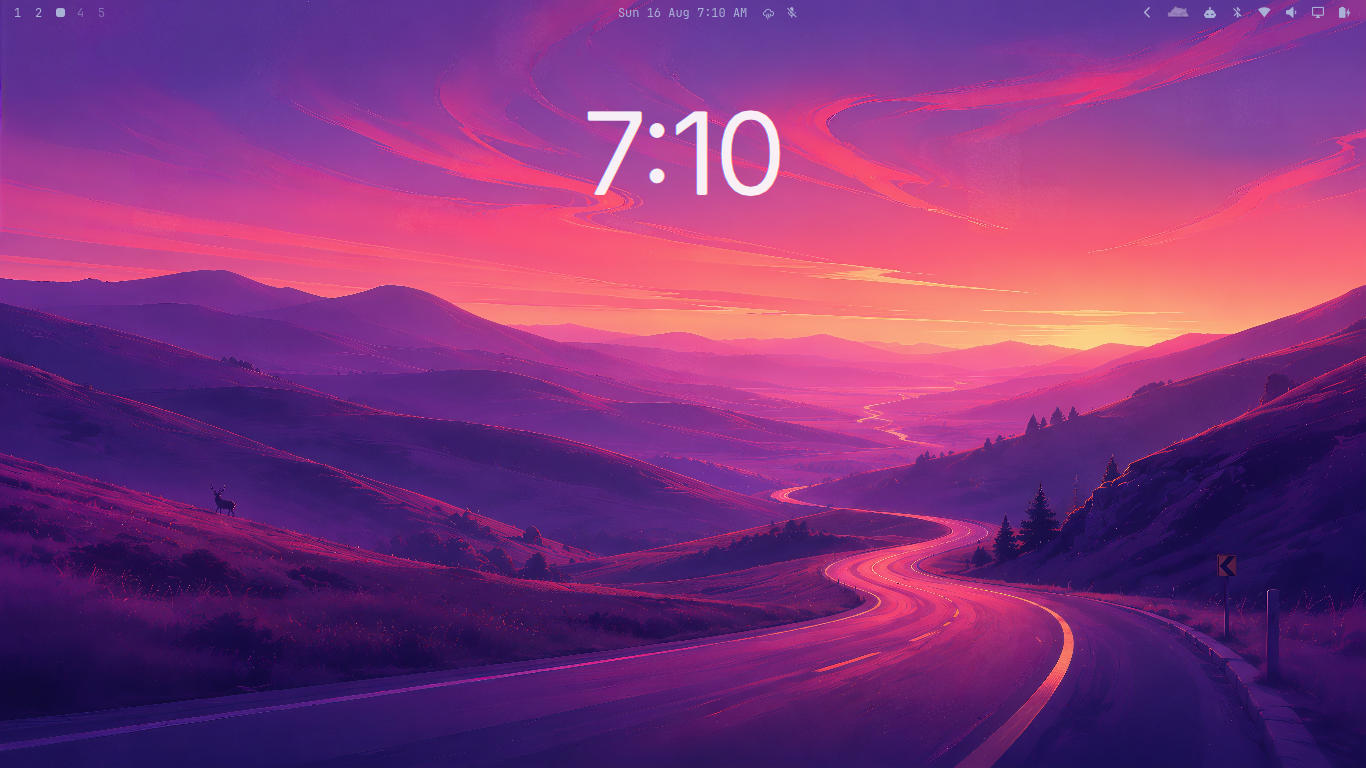
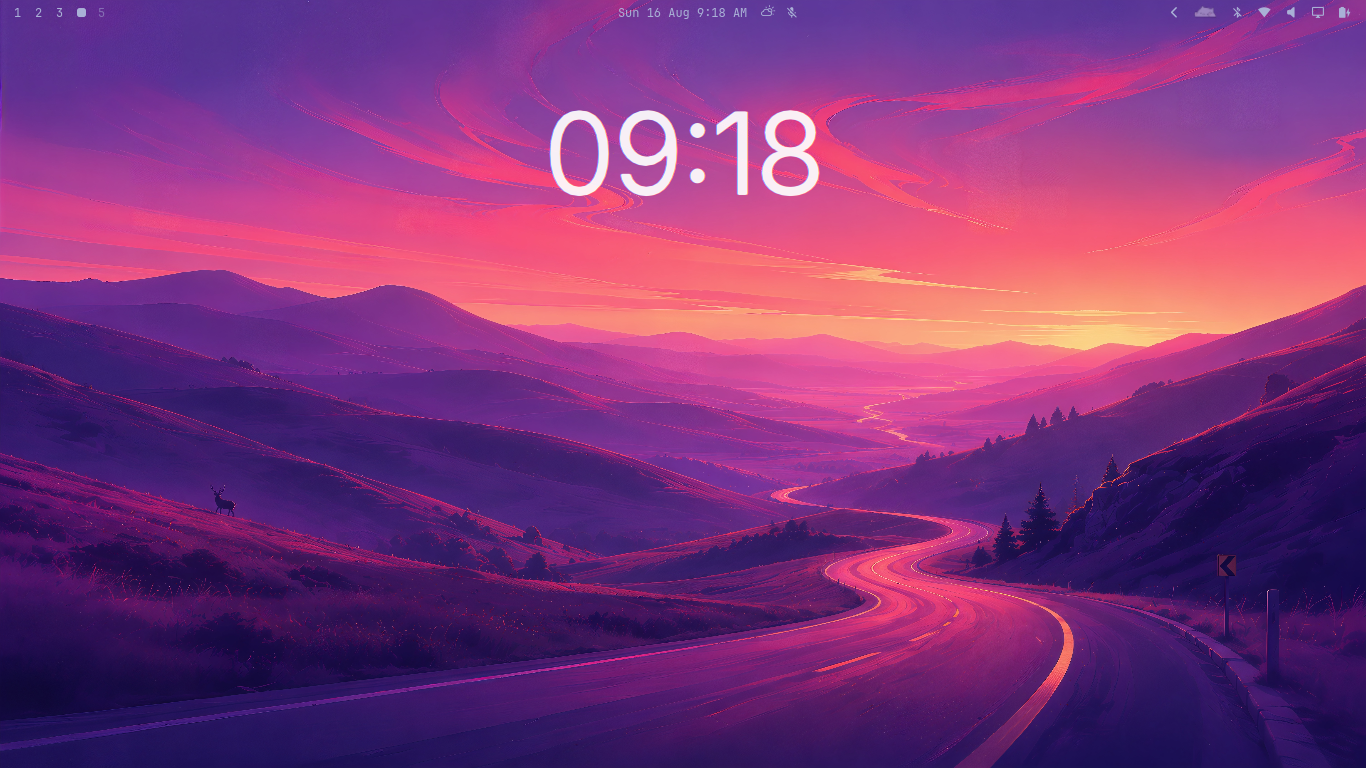
Fix Inter font default (activeFont no longer breaks on loader timing), match clock color to top bar (Color.bar.text), add preview screenshot; bump to 1.2.0

Changed region(s): [[0.3997, 0.125, 0.6149, 0.2812], [0.8609, 0.0, 0.8917, 0.0312], [0.0307, 0.0, 0.0615, 0.0312]]

diff --git a/DesktopClock.qml b/DesktopClock.qml
@@ -9,8 +9,8 @@ import qs.Commons
 Item {
   id: root
 
-  // Bundled fonts (OFL) so no system install is needed. Plus Jakarta Sans is
-  // the default (premium, Apple-like, taller x-height); Inter is the fallback.
+  // Bundled fonts (OFL) so no system install is needed. Inter is the default;
+  // Plus Jakarta Sans is an opt-in family via `fontFamily`.
   FontLoader {
     id: bundledFont
     source: Qt.resolvedUrl("fonts/InterVariable.ttf")
@@ -84,24 +84,15 @@ Item {
   }
 
   // Font resolution: "system" uses the platform default font (empty family),
-  // an explicit name is used as-is, and empty falls back to bundled Inter.
+  // an explicit name is used as-is, and empty falls back to bundled Inter
+  // ("Inter Variable" is the family name the bundled file registers).
   readonly property string activeFont: root.settings.fontFamily === "system"
     ? ""
-    : (root.settings.fontFamily ? root.settings.fontFamily : root.bundledFont.name)
+    : (root.settings.fontFamily ? root.settings.fontFamily : "Inter Variable")
 
-  // Empty `color` follows a softened version of the active theme's accent
-  // (blended toward the theme foreground) so the clock shows the theme's color
-  // identity without being harsh. A non-empty value is an explicit override.
-  // Recolors live when the theme changes (Color is a live singleton).
-  function mix(c1, c2, t) {
-    return Qt.rgba(
-      c1.r * (1 - t) + c2.r * t,
-      c1.g * (1 - t) + c2.g * t,
-      c1.b * (1 - t) + c2.b * t,
-      1.0
-    )
-  }
-  readonly property color themeColor: root.mix(Color.accent, Color.foreground, 0.30)
+  // Empty `color` follows the top bar's text color (Color.bar.text), which is
+  // theme- and wallpaper-aware. A non-empty value is an explicit override.
+  readonly property color themeColor: Color.bar.text
   readonly property color activeColor: root.settings.color
     ? Qt.color(root.settings.color)
     : root.themeColor

diff --git a/README.md b/README.md
@@ -4,15 +4,17 @@ A simple, minimal desktop clock widget for [Omarchy](https://omarchy.org/) that
 renders **behind all of your open windows** on the bottom layer — a clean,
 click-through time display living on your desktop like a wallpaper.
 
+![Preview](preview.png)
+
 ## Features
 
 - Renders behind every app window on the bottom layer (click-through; desktop
   and wallpaper interactions keep working).
 - Fully configurable time format — 12-hour, 24-hour, with seconds, and optional
   AM/PM (e.g. `1:30`, `13:30`, `1:30 PM`, `1:30:05`).
-- **Theme-aware color** by default: a softened version of your active Omarchy
-  theme's accent (blended toward the theme foreground) that recolors live when
-  you switch themes. Set a fixed CSS color to override.
+- **Theme-aware color** by default: matches your top status bar's text color
+  (`Color.bar.text`), so it adapts to the theme and wallpaper just like the bar.
+  Set a fixed CSS color to override.
 - Bundled **Inter** typeface (OFL) as the default font — no system install
   needed. Also bundles **Plus Jakarta Sans** (OFL) as an optional Apple-like
   alternative, and you can use any installed system font.
@@ -42,7 +44,7 @@ within ~2 seconds.
 | `fontWeight`    | `200`               | Numerals weight, 100–900 (200 = thin, 400 = regular).                      |
 | `fontScale`     | `0.15`              | Font size as a fraction of screen height (0.15 = 15%).                     |
 | `letterSpacing` | `-3`                | Extra spacing between numerals (negative tightens them).                   |
-| `color`         | `""`                | Clock color. `""` follows a softened version of the active theme's accent and recolors on theme switch; any CSS color (e.g. `#ffffff`) overrides it. |
+| `color`         | `""`                | Clock color. `""` matches the top status bar's text color (theme/wallpaper-aware); any CSS color (e.g. `#ffffff`) overrides it. |
 | `opacity`       | `0.92`              | Clock opacity, 0–1.                                                         |
 | `position`      | `top`               | Vertical anchor used when `yRatio` is not set: `top` / `center` / `bottom`. |
 | `yRatio`        | `0.20`              | Vertical position as a 0–1 ratio of screen height (overrides `position`).   |
@@ -51,10 +53,11 @@ within ~2 seconds.
 
 ### Color & theming
 
-With `color` left empty, the clock uses a softened accent derived from your
-active Omarchy theme, so it always harmonizes with your setup and updates the
-moment you switch themes (`omarchy theme set …`). To pin a specific color, set
-`color` to any CSS color string.
+With `color` left empty, the clock uses the exact color Omarchy uses for the
+top status bar's text (`Color.bar.text`), so it stays in sync with the theme
+and wallpaper just like the bar — updating the moment you switch themes
+(`omarchy theme set …`). To pin a specific color, set `color` to any CSS color
+string.
 
 ### Fonts
 
@@ -76,7 +79,7 @@ Bigger, centered, with seconds:
 }
 ```
 
-Soft theme accent, Inter, lower on the screen:
+Bar-matching color, Inter, lower on the screen:
 
 ```json
 {
